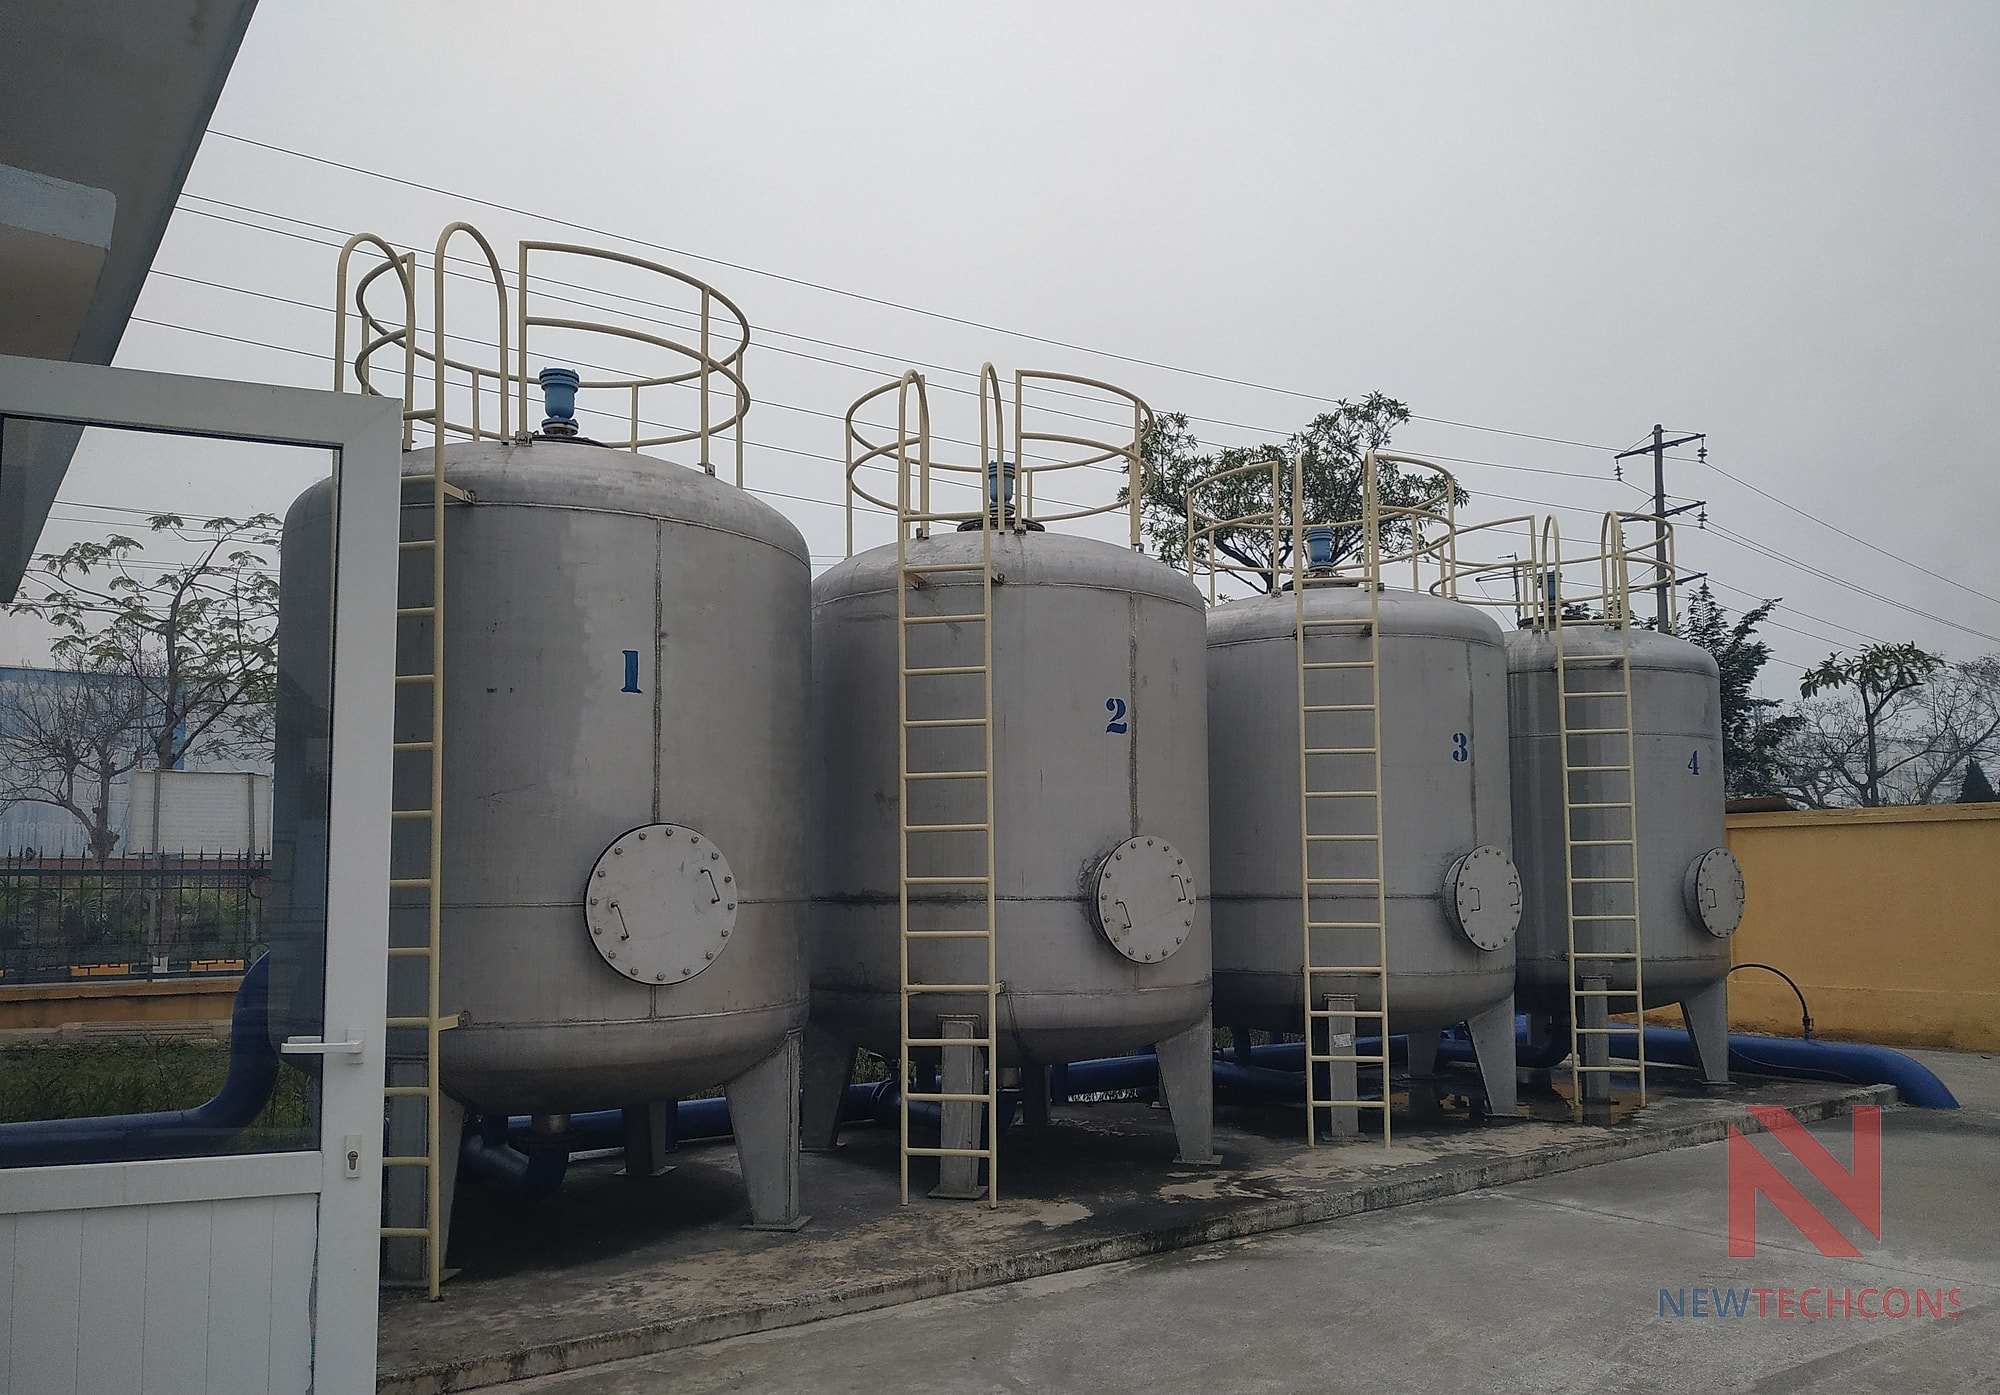
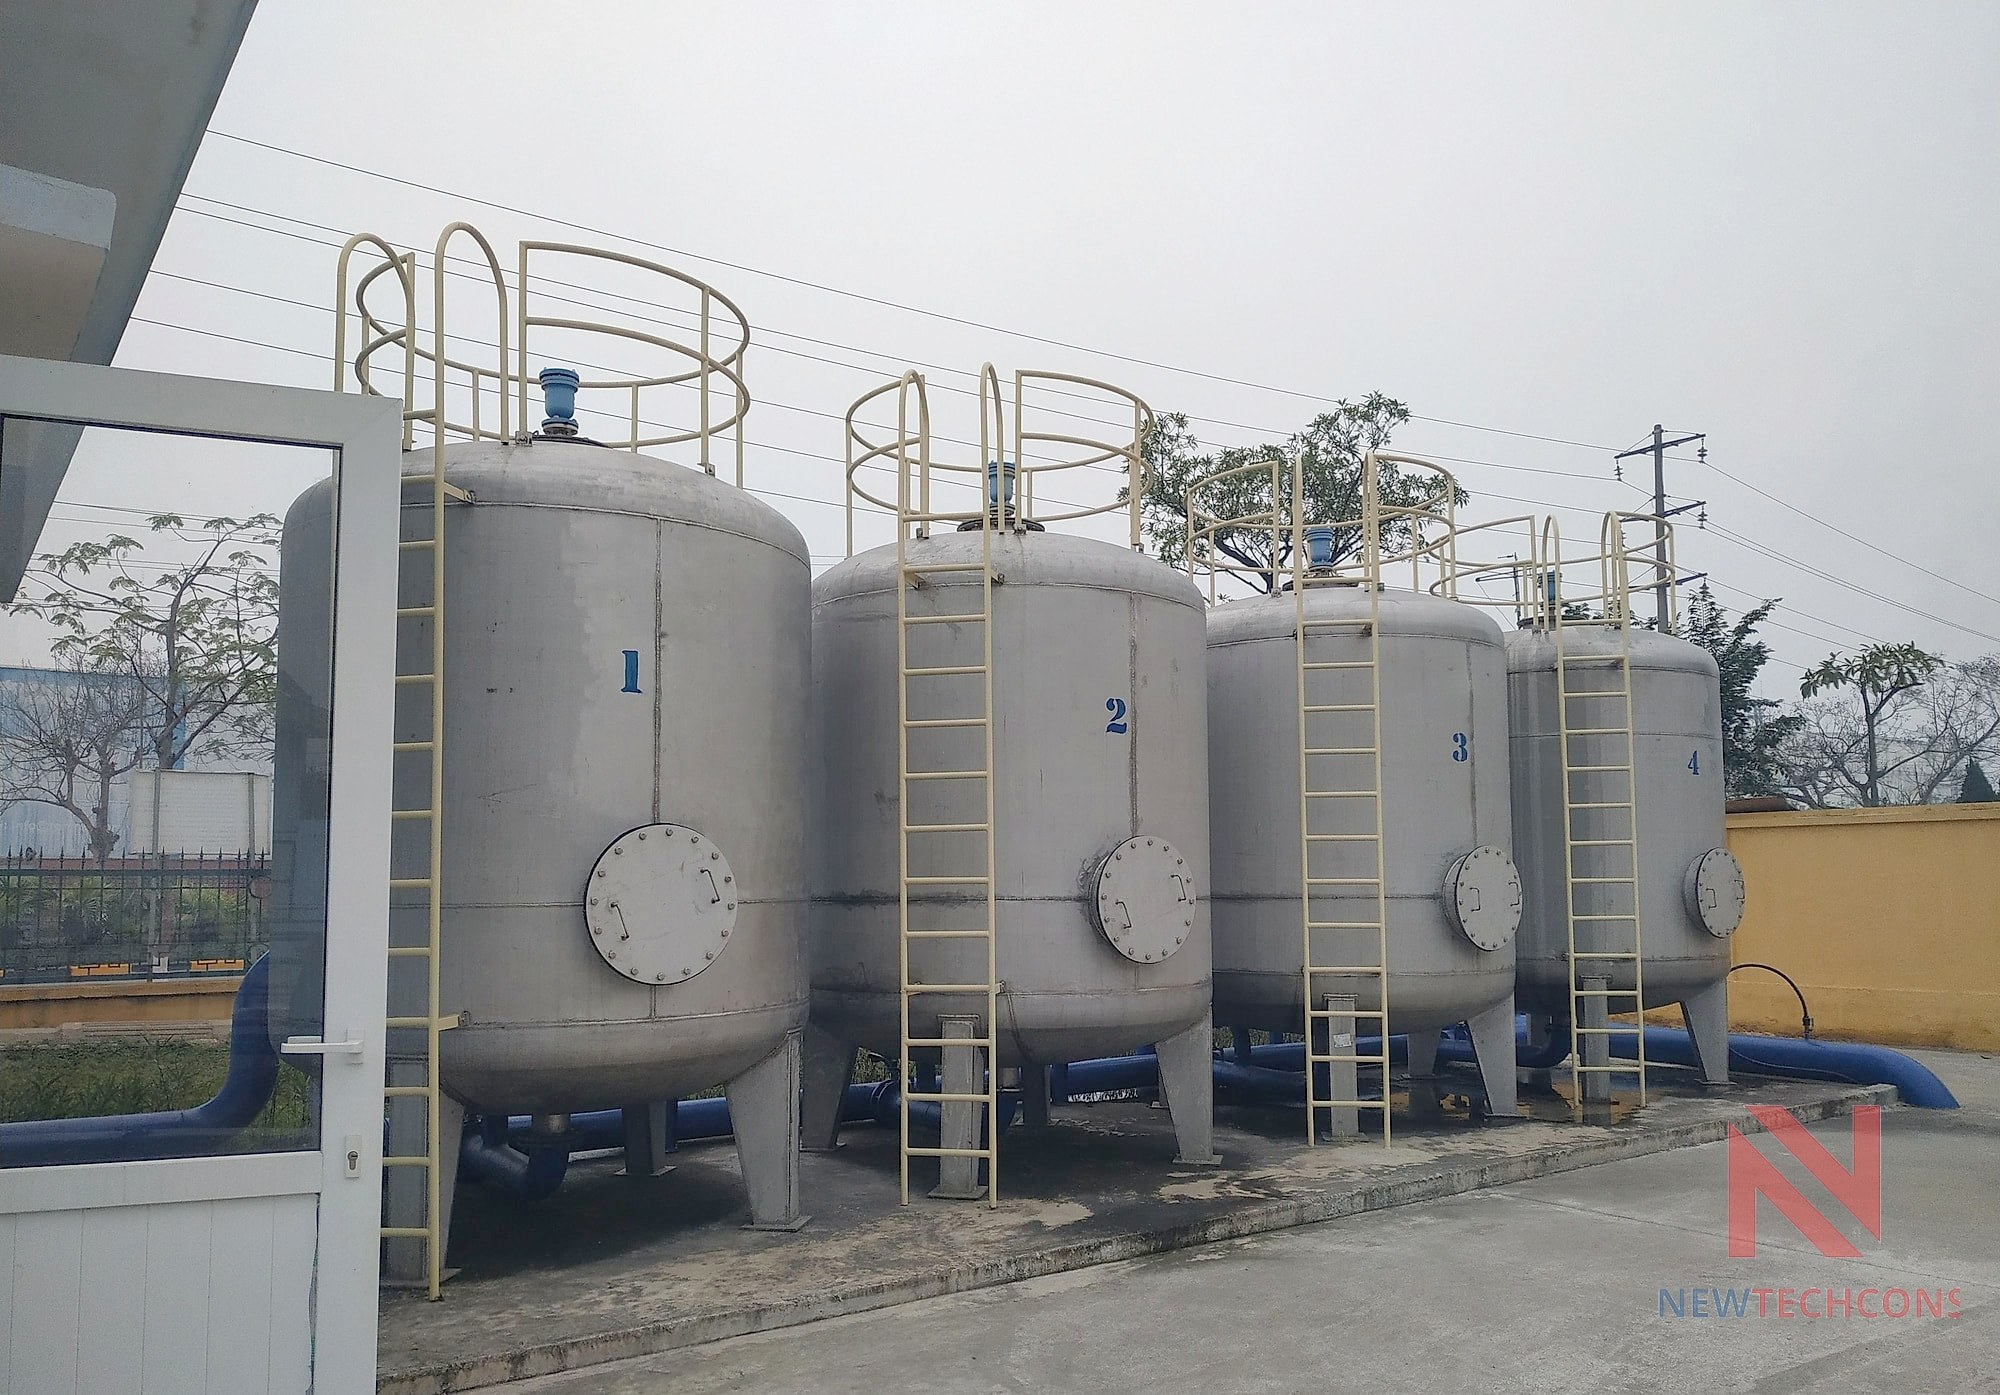
Làm sáng ảnh trang dự án nước sạch KCN Tiên Sơn

diff --git a/src/content/du-an/he-thong-nuoc-sach-kcn-tien-son-vigracela.md b/src/content/du-an/he-thong-nuoc-sach-kcn-tien-son-vigracela.md
@@ -11,10 +11,10 @@ congNghe:
   - "Lọc áp lực đa lớp vật liệu"
   - "Khử trùng"
   - "Trạm bơm cấp nước"
-anhBia: "/images/uploads/1789825960095-img-20190125-103207.jpg"
+anhBia: "/images/uploads/1789825960095-img-20190125-103207.jpg?v=2"
 anhBiaAlt: "Cụm bồn lọc áp lực bằng thép trong hệ thống xử lý nước sạch KCN Tiên Sơn"
 thuVienAnh:
-  - duong_dan: "/images/du-an/vigracela-tien-son-anh-2.jpg"
+  - duong_dan: "/images/du-an/vigracela-tien-son-anh-2.jpg?v=2"
     alt: "Khuôn viên trạm xử lý nước sạch KCN Tiên Sơn, Bắc Ninh"
 noiBat: true
 thuTu: 1
@@ -22,7 +22,7 @@ thuTu: 1
 
 <!-- THAY: xác nhận lại năm hoàn thành chính xác của dự án này. -->
 
-![Hệ thống bồn lọc](/images/uploads/1789826011704-img-20190125-103207.jpg)
+![Hệ thống bồn lọc](/images/uploads/1789826011704-img-20190125-103207.jpg?v=2)
 
 Dự án cấp nước sạch quy mô lớn phục vụ toàn bộ hạ tầng Khu công nghiệp Tiên Sơn, do
 Công ty Đầu tư Phát triển Hạ tầng Vigracela làm chủ đầu tư, với công suất thiết kế
@@ -31,9 +31,9 @@ Newtechcons từng triển khai.
 
 ## Phạm vi công việc
 
-![Hệ thống bơm cn](/images/uploads/1789826043507-img-20190125-103241.jpg)
+![Hệ thống bơm cn](/images/uploads/1789826043507-img-20190125-103241.jpg?v=2)
 
-![Hệ thống tủ điện](/images/uploads/1789826165630-img-20190125-103248.jpg)
+![Hệ thống tủ điện](/images/uploads/1789826165630-img-20190125-103248.jpg?v=2)
 
 - Thiết kế trạm xử lý nước với cụm bồn lọc áp lực đa lớp vật liệu (cát, than hoạt tính).
 - Thi công lắp đặt hệ thống bồn lọc thép, đường ống công nghệ và trạm bơm cấp nước.
@@ -41,7 +41,7 @@ Newtechcons từng triển khai.
 - Cung cấp thiết bị, vật tư, hệ thống tủ điện cho trạm xử lý nước
 ## Kết quả
 
-![ Hoàn thiện hệ thống](/images/uploads/1789826237427-img-20190125-101548.jpg)
+![ Hoàn thiện hệ thống](/images/uploads/1789826237427-img-20190125-101548.jpg?v=2)
 
 Hệ thống cấp nước ổn định cho các nhà máy hoạt động trong khu công nghiệp, đáp ứng cả nhu cầu
 nước sản xuất và nước sinh hoạt cho người lao động.
